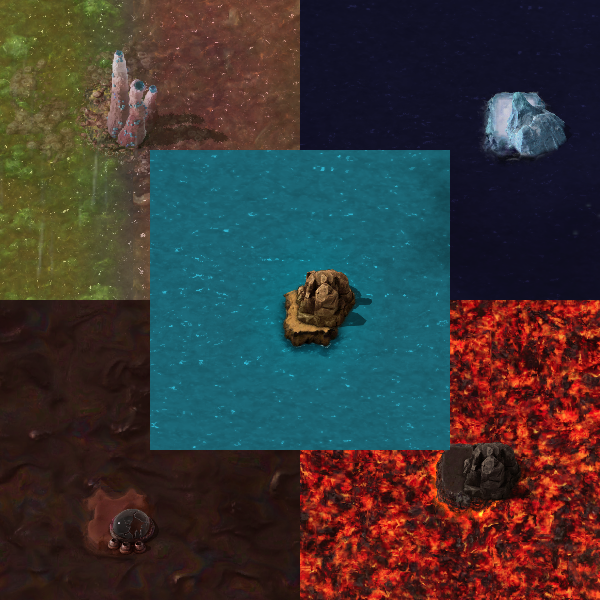
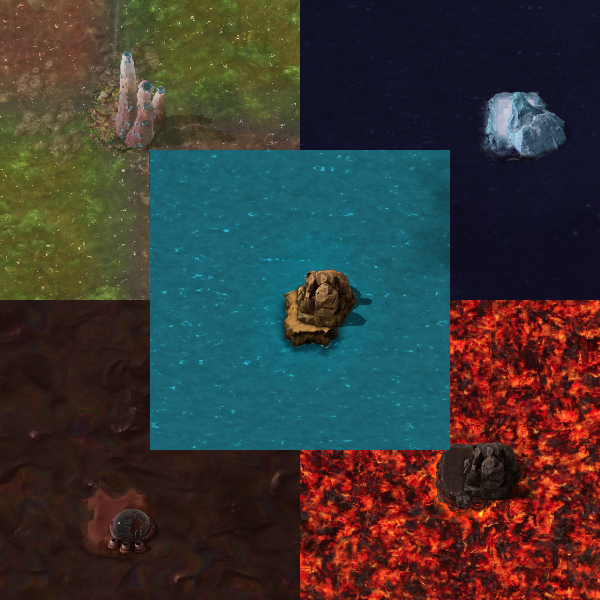
feat: use quarters instead of halves terrain gen for Gleba (#22)

Changed region(s): [[0.0, 0.0, 0.51, 0.48], [0.12, 0.45, 0.21, 0.51], [0.03, 0.48, 0.06, 0.51]]

diff --git a/src/data-updates/water-world.ts b/src/data-updates/water-world.ts
@@ -98,8 +98,8 @@ glebaData.map_gen_settings.autoplace_settings = {
     entity: {},
 }
 data.raw.tile['highland-yellow-rock'].autoplace.probability_expression = noiseExpressionString;
-data.raw.tile['wetland-yumako'].autoplace.probability_expression = 'if(x_from_start < 0, 1000, -1000)'
-data.raw.tile['wetland-jellynut'].autoplace.probability_expression = 'if(x_from_start > 0, 1000, -1000)'
+data.raw.tile['wetland-yumako'].autoplace.probability_expression = 'if(x_from_start * y_from_start < 0, 1000, -1000)'
+data.raw.tile['wetland-jellynut'].autoplace.probability_expression = 'if(x_from_start * y_from_start > 0, 1000, -1000)'
 
 const aquiloData = data.raw.planet.aquilo;
 aquiloData.map_gen_settings.property_expression_names.elevation = 'seablock-water-world'
